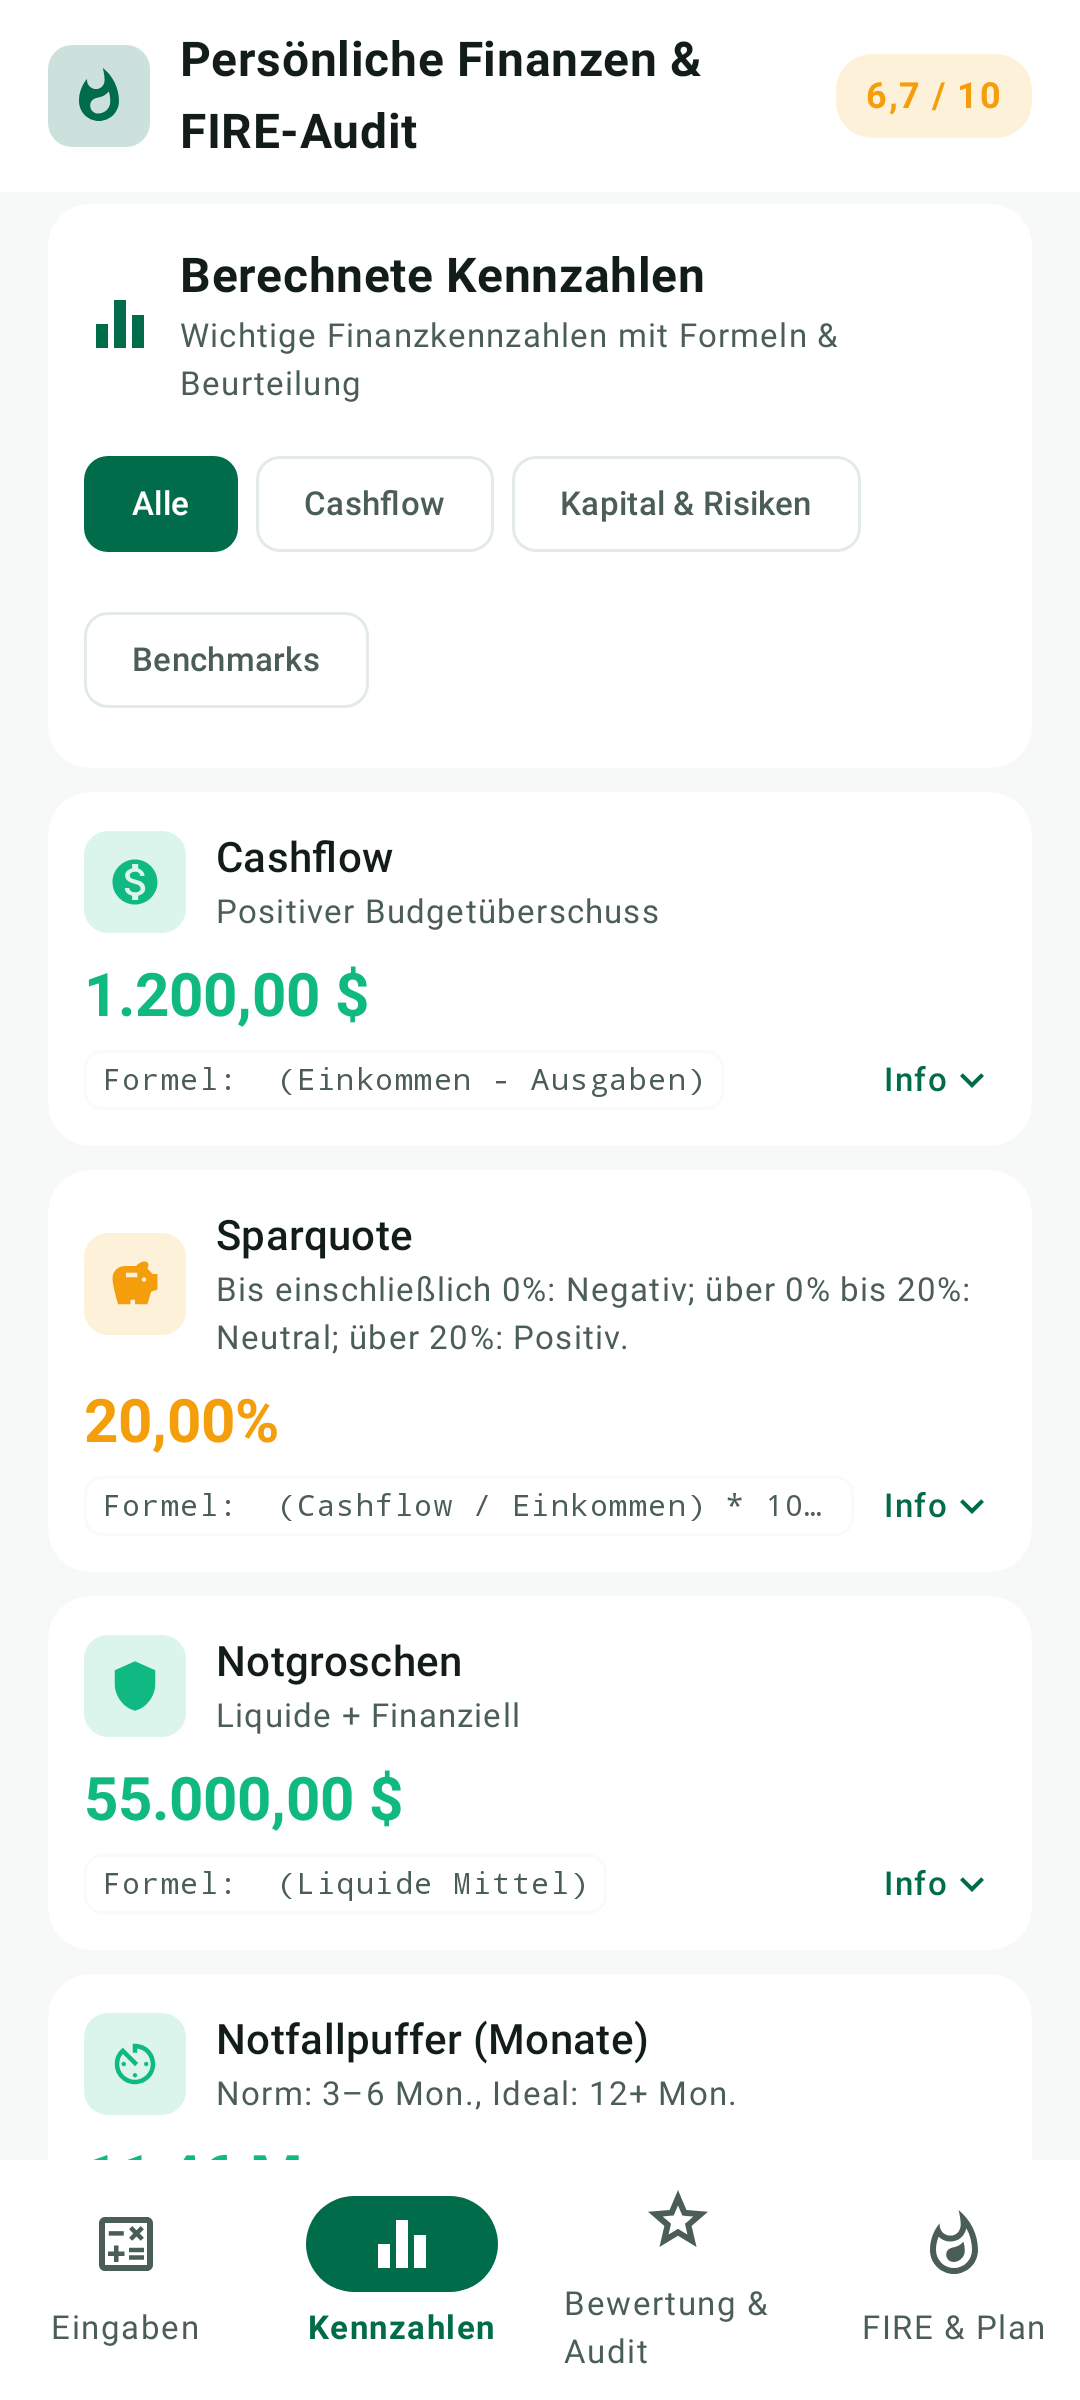
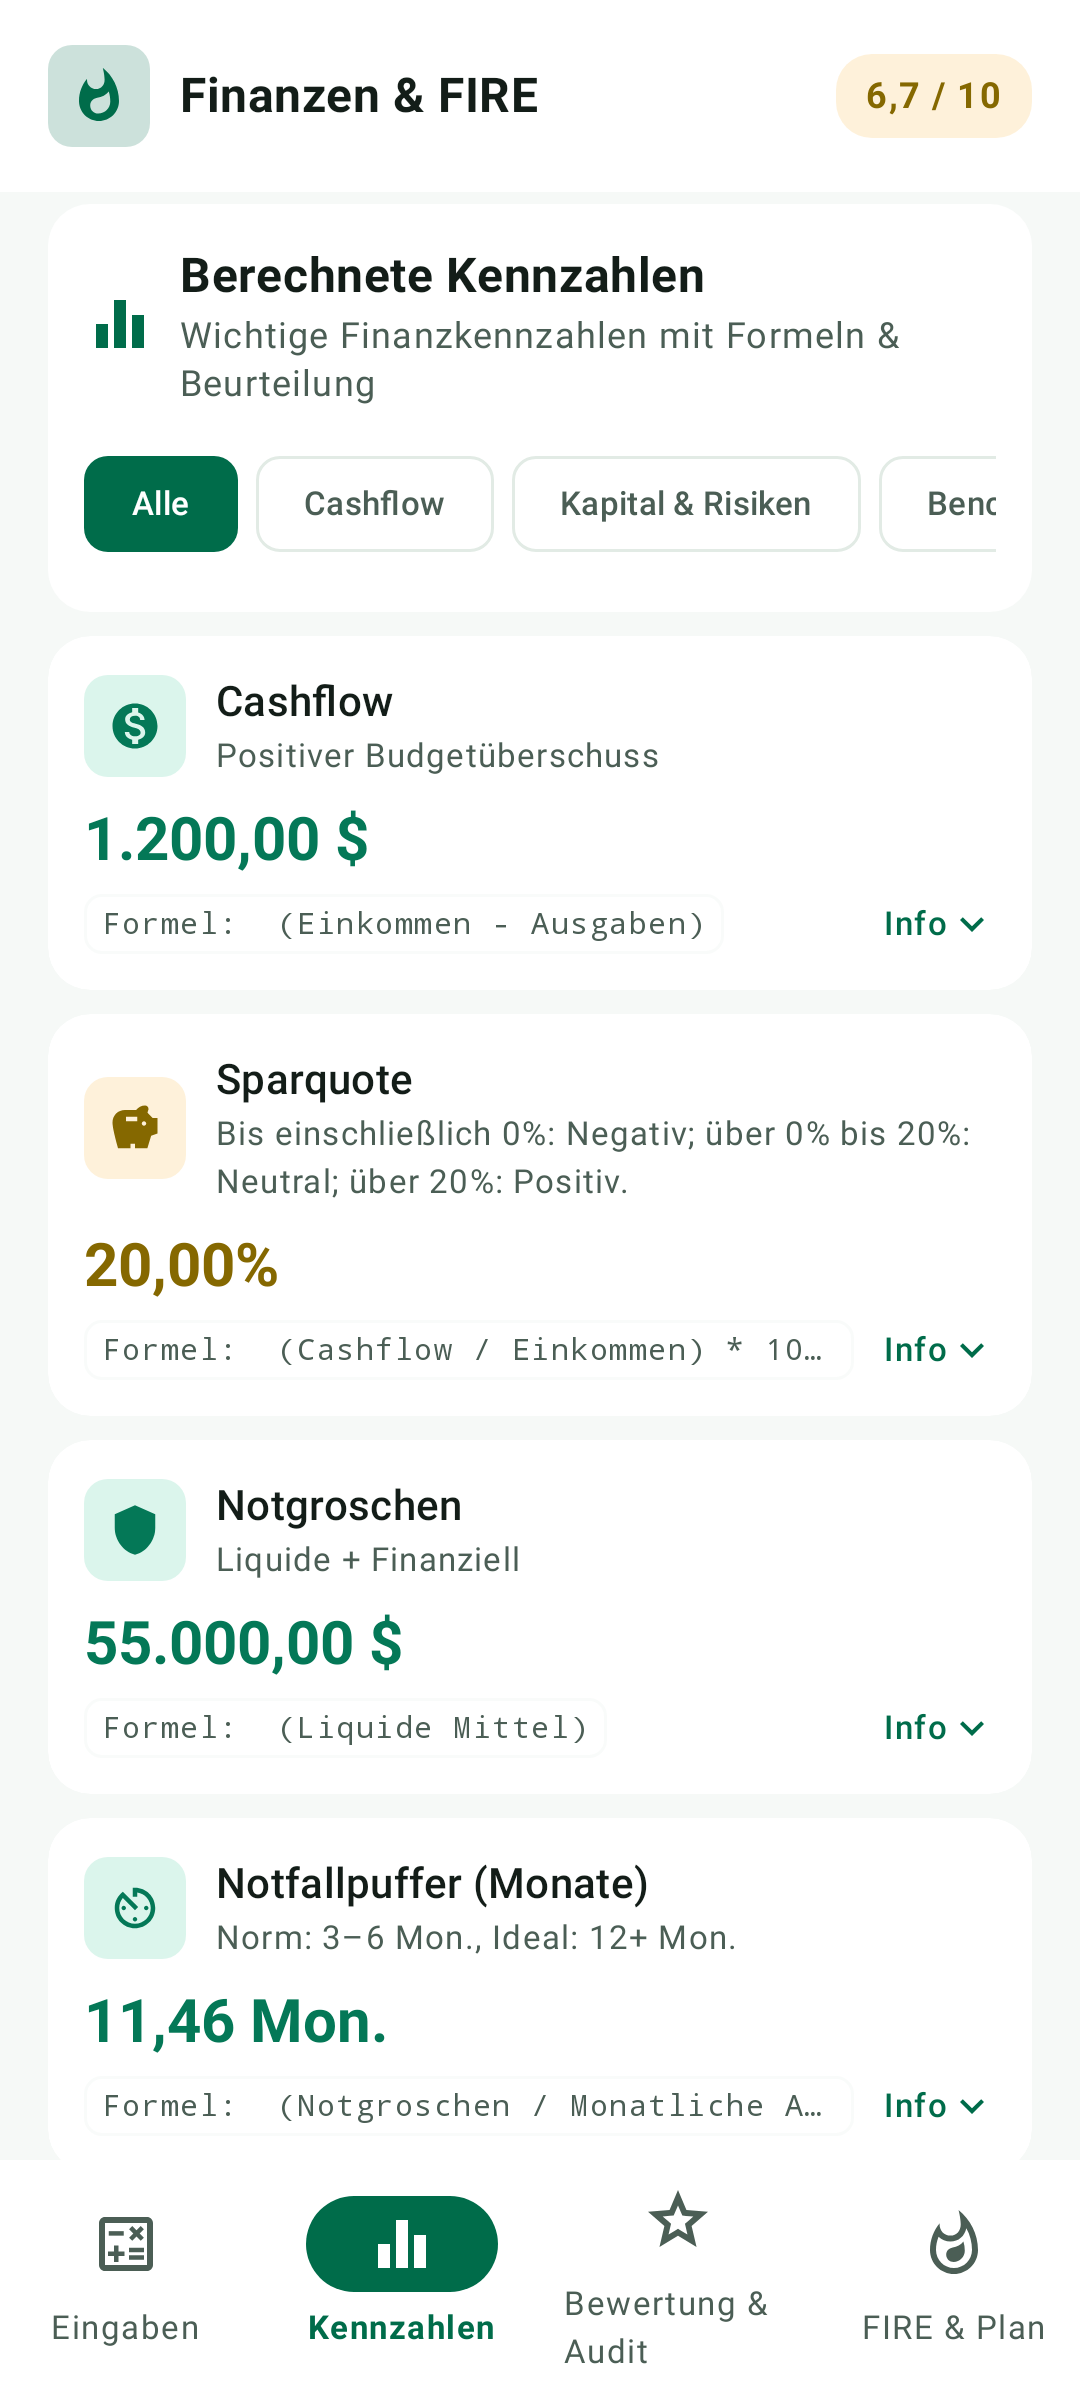
chore(release): prepare 1.0.2 (versionCode 3)
Bump versionName to 1.0.2 and versionCode to 3, add release notes in six
locales, add the 1.0.2 build entry to the local F-Droid recipe by tag
v1.0.2, refresh store screenshots for the current UI, and record the
preparation status and checks in docs/release-prep-1.0.2.md.

The tag is not created: metadata/io.github.volmir.personalfinance.yml
still points at 1.0.1 / 2 because the recipe needs the full SHA of the
release commit.

diff --git a/docs/release-prep-1.0.2.md b/docs/release-prep-1.0.2.md
@@ -1,0 +1,57 @@
+# Подготовка релиза 1.0.2 — 18.11.2026
+
+Статус: **подготовлено, тег не создан, подписанная сборка не выпущена.**
+Опубликованным остаётся `v1.0.1` / `versionCode 2`; теги `v1.0` и `v1.0.1` не перемещаются.
+
+## Подготовленные файлы
+
+| Файл | Изменение |
+|---|---|
+| `app/build.gradle.kts` | `versionName = "1.0.2"`, `versionCode = 3` |
+| `fastlane/metadata/android/<locale>/changelogs/3.txt` | заметки выпуска на шести языках, каждая ≤ 500 символов |
+| `.fdroid.yml` | сборка `1.0.2` / `3` по тегу `v1.0.2`; `CurrentVersion` / `CurrentVersionCode` — `1.0.2` / `3` |
+| `AGENTS.md` | фактическая версия и фаза проекта |
+| `app/src/main/res/**`, `fastlane/.../images/icon.png` | новый значок приложения |
+| `fastlane/.../images/phoneScreenshots/*.png` | скриншоты пересобраны под текущий интерфейс |
+
+`metadata/io.github.volmir.personalfinance.yml` **намеренно не тронут**: запись сборки требует полного SHA коммита тега, которого ещё нет. Для `v1.0.1` такая запись тоже добавлялась отдельным коммитом после создания тега.
+
+## Содержание заметок выпуска
+
+Заметки описывают изменения относительно `1.0.1`: подвкладки «FIRE» и «Симуляция», перенос экспорта, новый значок, контрастные статусные цвета и крупные мелкие подписи, одноразовое уведомление о демо-данных, компактный статус «До пенсии осталось».
+Проверено: все шесть файлов — по шесть строк, длина ≤ 500 символов, без удвоенной пунктуации.
+
+## Проверки этого среза
+
+Исходная база: `46919a0` (замена значка). Сверх неё изменены только версия, заметки выпуска, рецепты F-Droid, документы и скриншоты; расчёты, пороги и тексты приложения не менялись.
+
+| Проверка | Результат |
+| --- | --- |
+| JVM и Robolectric | `bash ./gradlew testDebugUnitTest :app:lintRelease :app:assembleRelease --offline`: 267 тестов, 0 падений, 1 пропуск (`StoreScreenshotsTest` в обычном прогоне) |
+| Скриншоты | `GENERATE_STORE_SCREENSHOTS=1 … --tests com.example.StoreScreenshotsTest --rerun-tasks`: успешно, 24 PNG 1080×2400 (4 × 6 локалей), все 24 файла изменились |
+| Android Lint (`lintRelease`) | 0 ошибок, 23 предупреждения: `GradleDependency` 11, `UnusedResources` 7 (шаблонные цвета), `UseKtx` 3, `ApplySharedPref` 1, `RedundantLabel` 1 |
+| Локальное окружение | OpenJDK 21.0.13, Gradle 9.3.1, Kotlin 2.2.21, Build Tools 36.0.0 |
+| Идентичность приложения | `io.github.volmir.personalfinance`, namespace `com.example`, minSdk 24, targetSdk 36 сохранены |
+| Версия в APK | `aapt2 dump badging`: versionName `1.0.2`, versionCode `3` |
+| Флаги манифеста | Включённых debuggable/testOnly нет; `INTERNET` отсутствует, единственное разрешение — служебное `DYNAMIC_RECEIVER_NOT_EXPORTED_PERMISSION` |
[1 lines of base64/hex data omitted]
+| Заметки выпуска | Шесть файлов `changelogs/3.txt`, по 6 строк, длина: ru 487, en 453, de 488, es 488, fr 497, it 490 символов (≤ 500) |
+| `metadata/io.github.volmir.personalfinance.yml` | Не изменялся: запись `1.0.2` требует полного SHA тега, которого ещё нет |
+
+Копии unsigned APK лежат в `/tmp/opencode/pf-1.0.2/unsigned-build-{1,2}.apk` (вне репозитория). Подпись локально не выполнялась и не проверялась: она делается только секретами GitHub Actions на релизном теге. На устройствах и эмуляторах эта сборка не запускалась.
+
+## Осталось на день релиза (не выполнено)
+
+1. Создать тег `v1.0.2` с SSH-подписью, как `v1.0.1`, на релизном коммите и отправить его: `git tag -s v1.0.2 -m "Release 1.0.2" && git push origin v1.0.2`. Пуш тега запускает `.github/workflows/build-and-release.yml` (тесты → подписанная сборка → GitHub Release).
+2. Дождаться зелёного задания `Run Unit Tests` и релизного задания; скачать `PersonalFinance-v1.0.2.apk`, проверить `apksigner verify --print-certs` и `SHA256SUMS.txt`.
+3. Добавить в `metadata/io.github.volmir.personalfinance.yml` запись `versionName: '1.0.2'` / `versionCode: 3` с полным SHA релизного коммита, поднять `CurrentVersion` / `CurrentVersionCode` до `1.0.2` / `3`, сохранив `v1.0` и `v1.0.1`.
+4. Пересобрать `lintRelease` и `assembleRelease` с ключом, проверить две сборки на побайтовую идентичность, повторить проверку в официальном контейнере F-Droid и сравнить APK через `apksigcopier`.
+5. Обновить MR F-Droid (`!56526`) веткой с рецептом `1.0.2` и дождаться pipeline.
+6. Проверить подписанный APK на устройствах API 24 и 36.
+7. Заполнить `docs/release-readiness-1.0.2.md` фактическими результатами и обновить `README.md`, `APP_DESCRIPTION.md`, `FDROID_SETUP.md` по факту публикации.
+
+## Ограничения
+
+- Тег не публикуется без явного подтверждения автора.
+- Подпись выполняется только секретами GitHub Actions; локальные ключи и `local.properties` в Git не попадают.
+- Заметки выпуска — не замена проверке на устройстве и не подтверждение воспроизводимости.

diff --git a/AGENTS.md b/AGENTS.md
@@ -5,7 +5,7 @@ Personal Finance & FIRE Audit — offline Android app (Kotlin, Jetpack Compose, 
 ## 0. Working rules
 
 - Reply to the user in **Russian**, briefly. Code identifiers and commit messages stay in English.
-- Current phase: **release hardening after published v1.0.1 (version 1.0.1 / 2)**. Fix defects and logical inconsistencies only. **No new features, no behavior changes beyond the fix, no refactors that are not needed for the fix.** If a fix would change a user-visible number, say so before applying it.
+- Current phase: **release hardening; `1.0.2` / `3` prepared, `1.0.1` / `2` is the published release**. Fix defects and logical inconsistencies only. **No new features, no behavior changes beyond the fix, no refactors that are not needed for the fix.** If a fix would change a user-visible number, say so before applying it.
 - Minimal diffs: do not reformat, rename, or reorder untouched code. One logical change per commit.
 - Never silently edit a test expectation to make a test pass. If an expectation must change, state which value changed, by how much, and why.
 - Every bug fix ships with a regression test (boundary values for formulas).
@@ -18,7 +18,7 @@ Personal Finance & FIRE Audit — offline Android app (Kotlin, Jetpack Compose, 
 |---|---|
 | applicationId | `io.github.volmir.personalfinance` (**never change**: it is the app identity for updates and F-Droid) |
 | namespace / package | `com.example` (keep until after 1.0; renaming is a repo-wide refactor with no user benefit) |
-| Version | `versionName 1.0.1`, `versionCode 2` (`app/build.gradle.kts`) |
+| Version | `versionName 1.0.2`, `versionCode 3` (`app/build.gradle.kts`); published release is `1.0.1` / `2` |
 | Release tag | Published `v1.0.1`, commit `b94949e09844450a126a16a8f73f50edd87cd64a`; never delete or move published tags |
 | SDK | minSdk 24, targetSdk 36, compileSdk 36.1 (`release(36) { minorApiLevel = 1 }`) |
 | Toolchain | JDK 17 in CI; JDK 21 verified locally. AGP 9.1.1, Kotlin 2.2.10, Compose BOM 2024.09.00, core library desugaring 2.1.5 |
